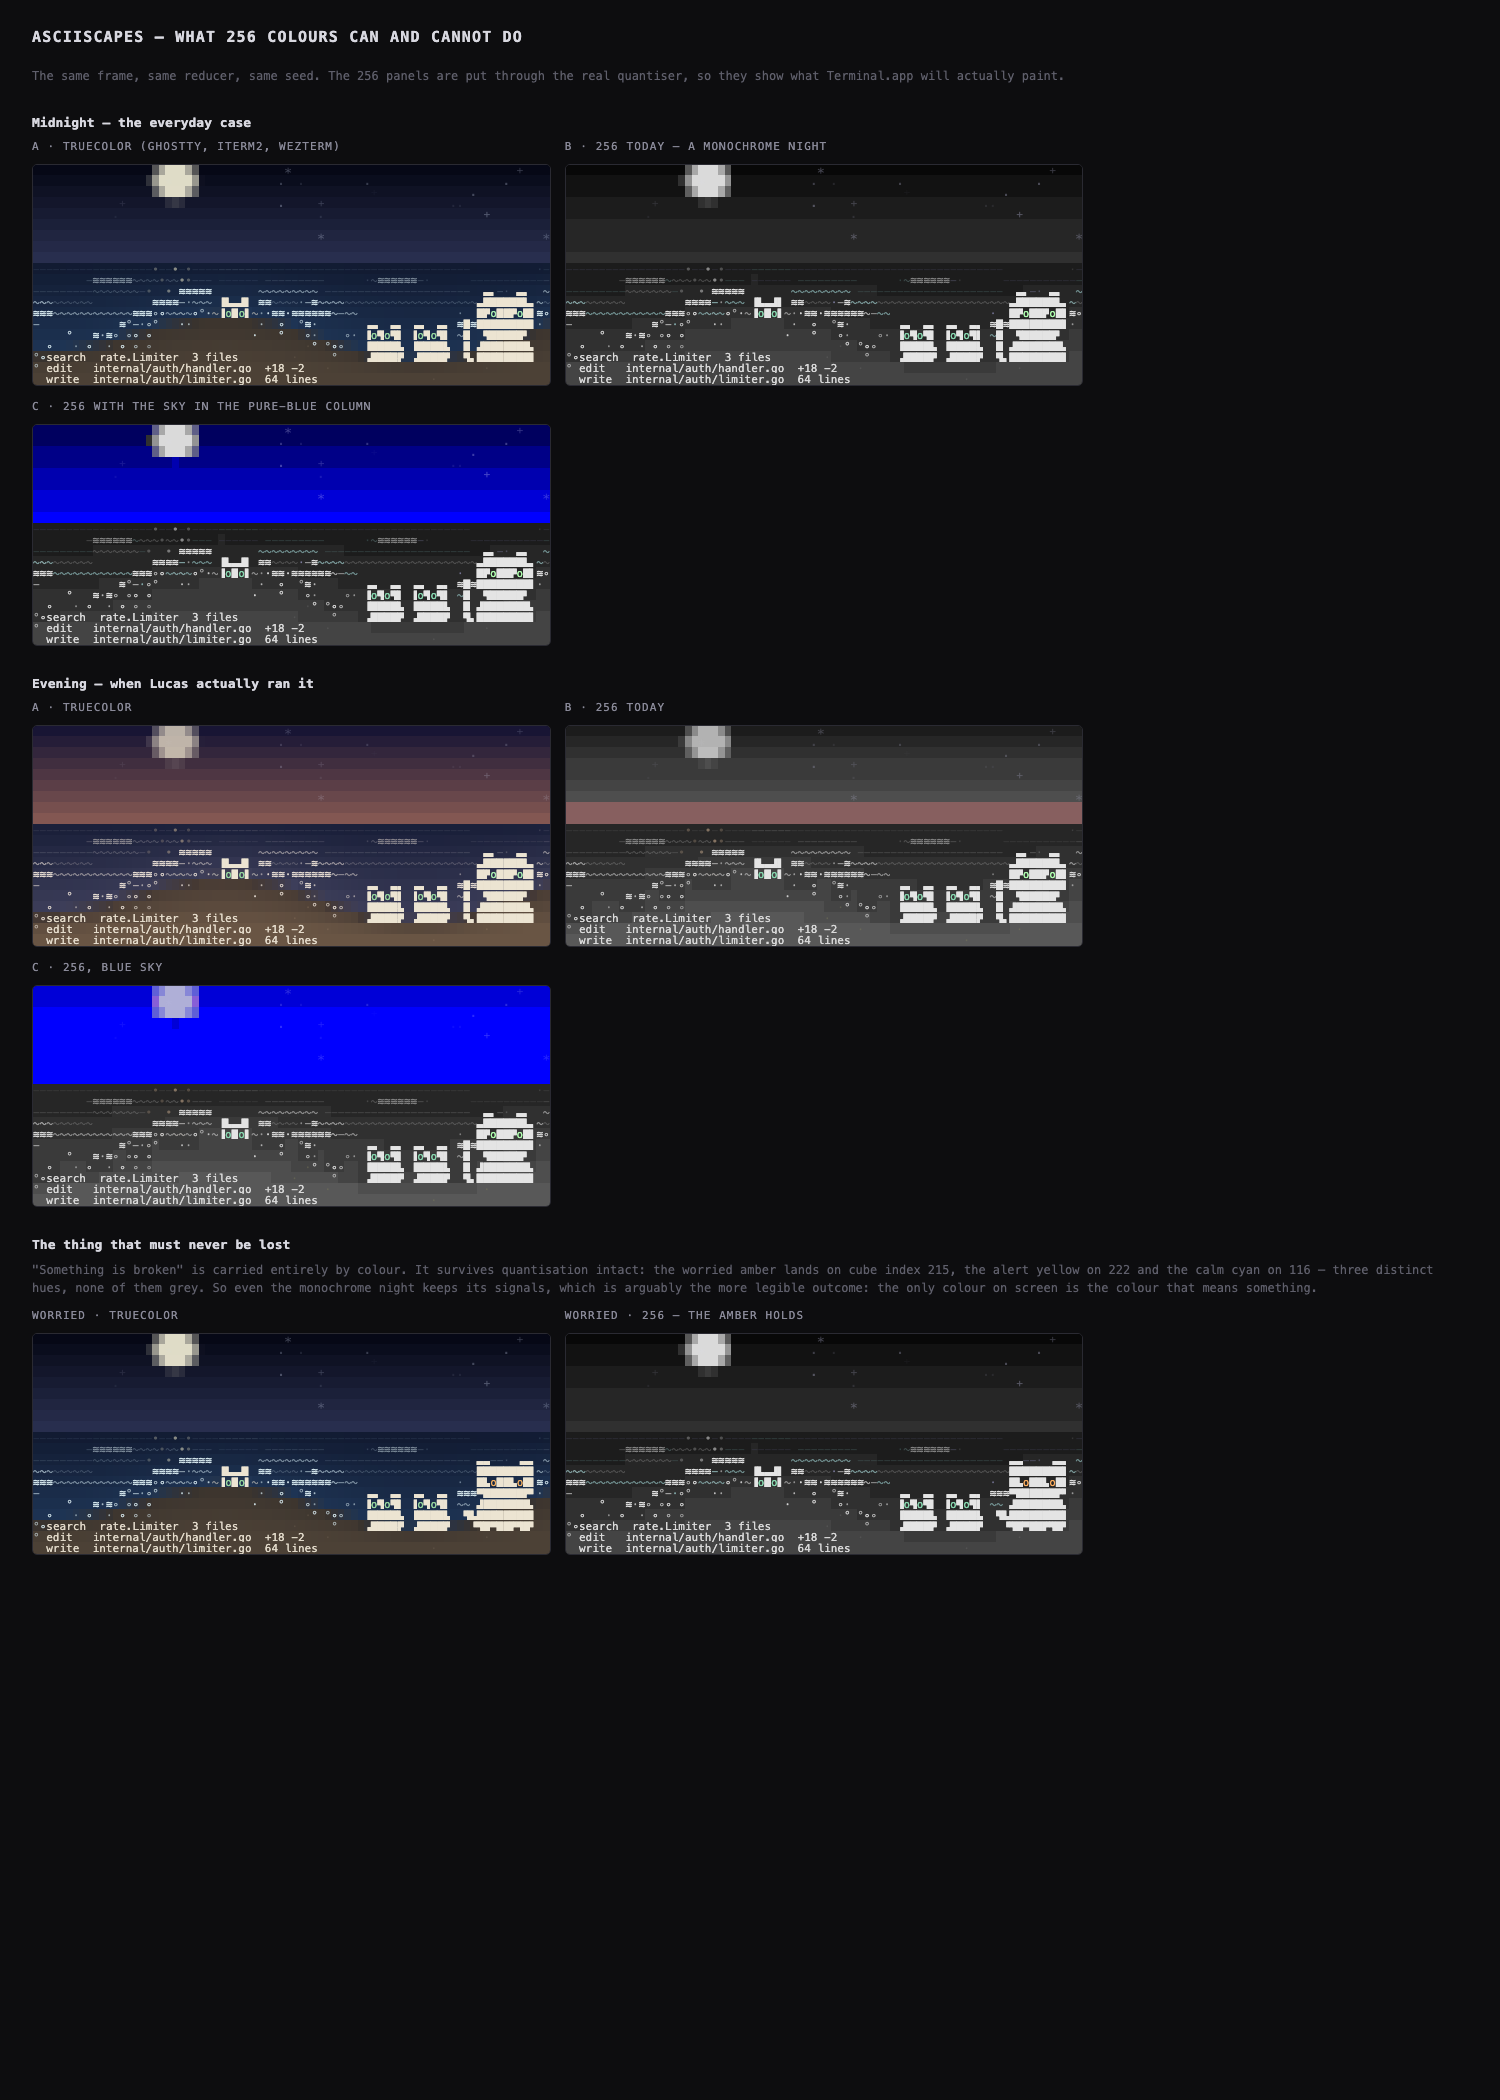
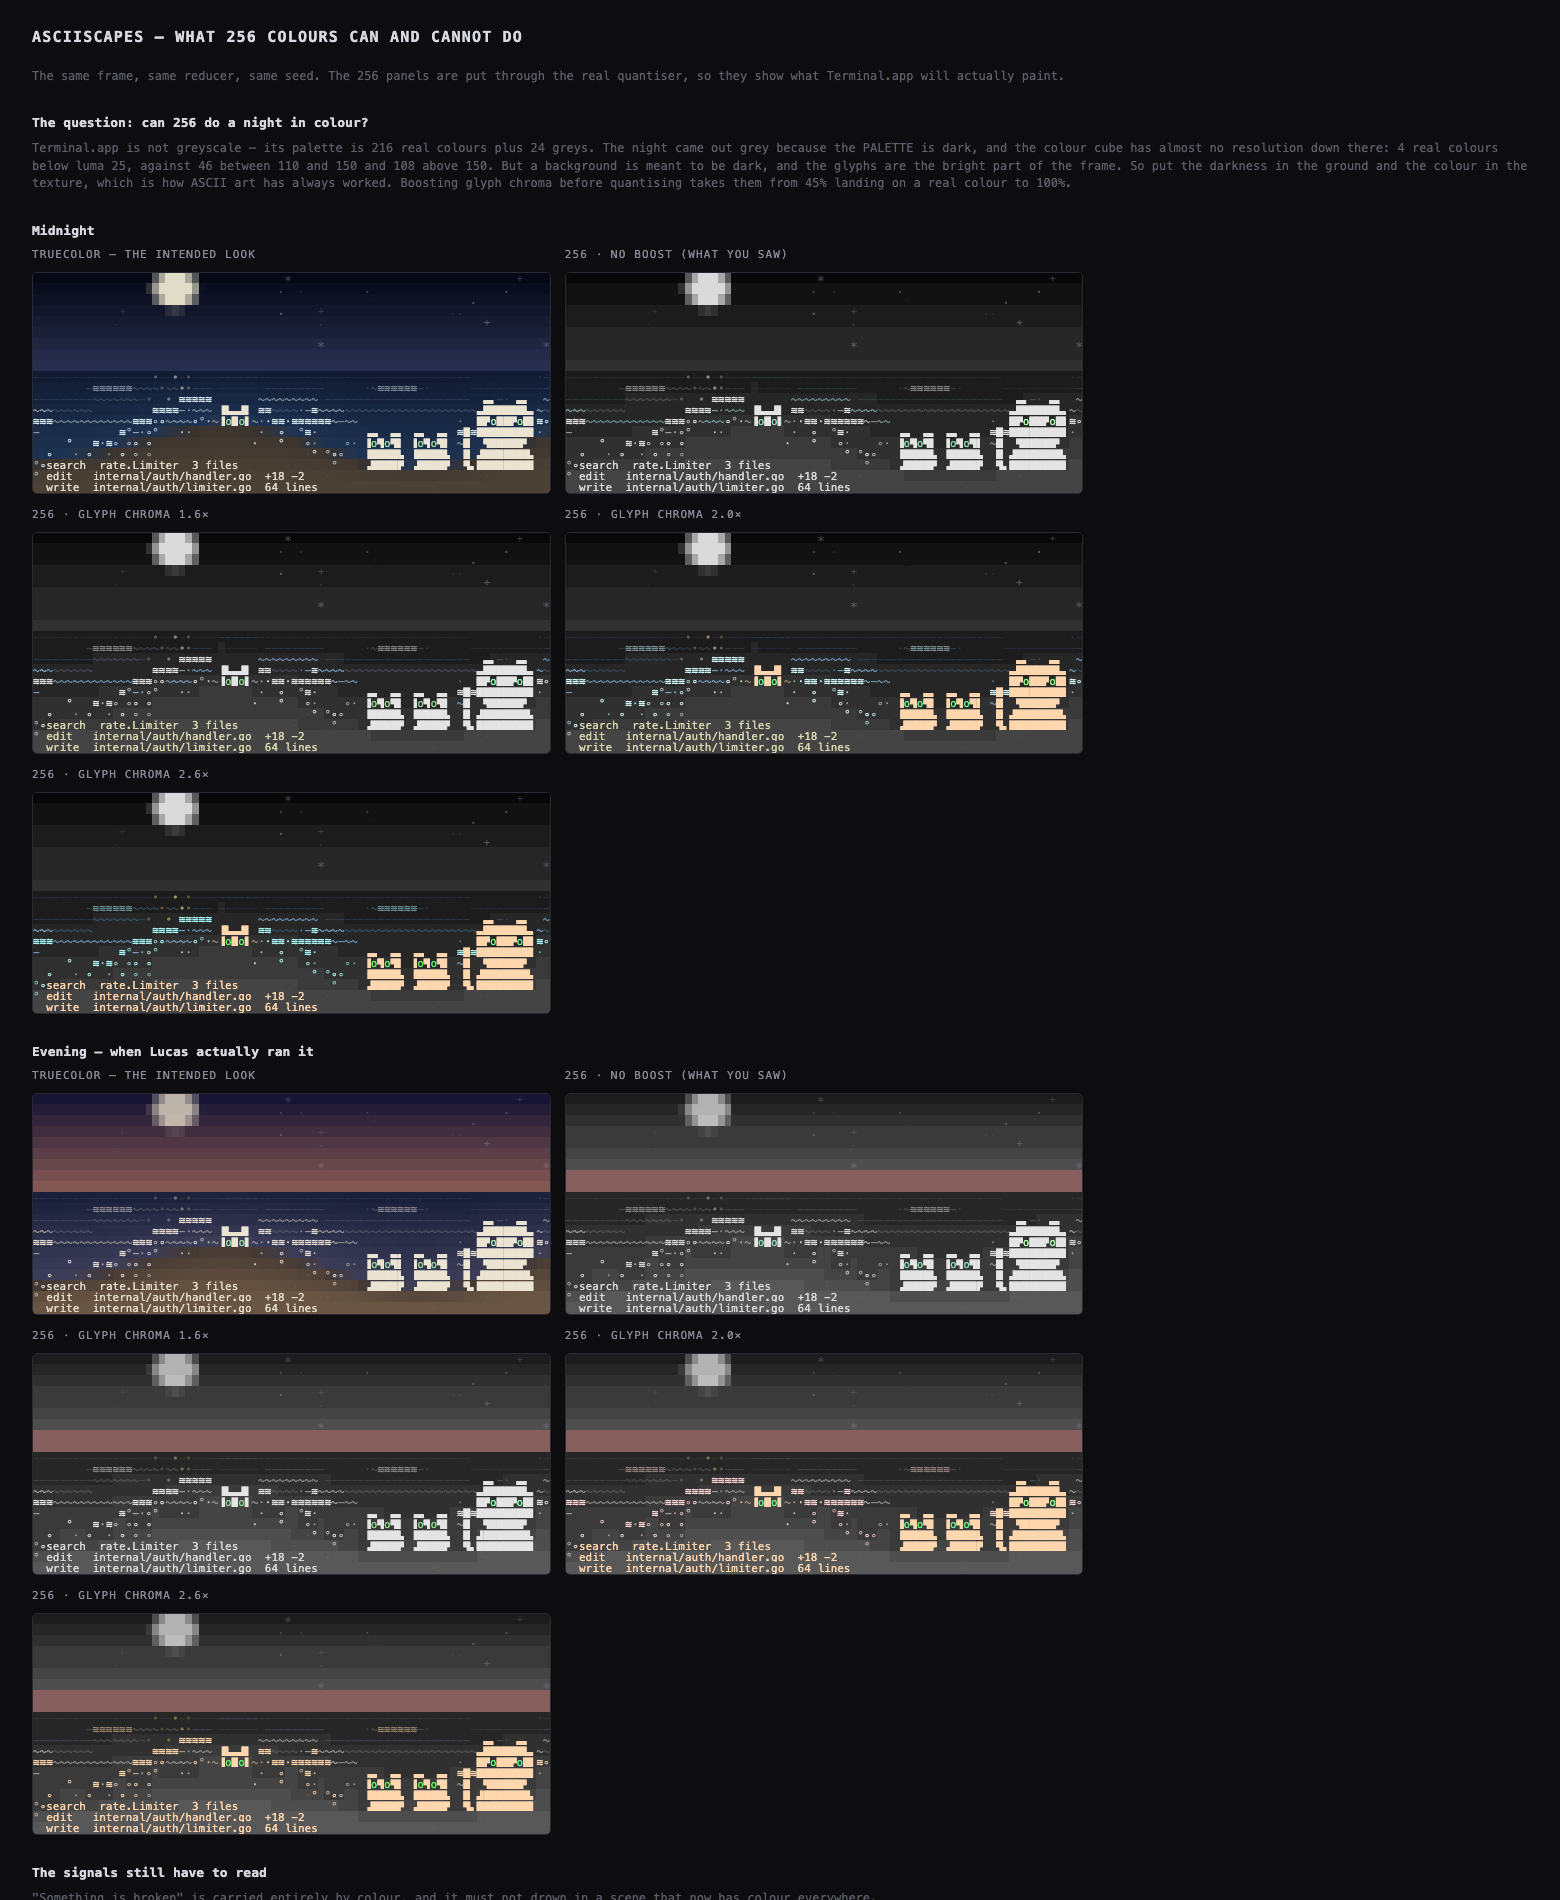
Colour on 256, by putting it in the glyphs instead of the ground
Lucas pushed back on the last conclusion and was right to. Terminal.app is not
greyscale -- its palette is 216 real colours plus 24 greys. The night came out
grey because our PALETTE is dark, not because the terminal is limited, and I
had folded those two things together.

The cube's resolution is wildly uneven with brightness. Counting only entries
with real chroma: 4 below luma 25, 6 from 25 to 50, 16 from 50 to 75, 30 from
75 to 110, 46 from 110 to 150, and 108 above 150. Every earlier attempt tried
to fix the BACKGROUNDS, which live at the starved end -- and to get them onto a
colour you have to brighten them until it stops being night, which is exactly
how all four designed palettes failed.

But a background is supposed to be dark, and dark is what night is. The glyphs
are the bright part of the frame, and brightness is where the cube gets
generous. Measured on a real frame: 612 glyphs, 93.5% of those in the 110-150
band already landing on a real colour. So the darkness belongs in the ground
and the colour in the texture, which is how ASCII art has always worked.

Boosting glyph chroma before quantising takes glyphs from 45.1% on a real
colour to 100%, at 2.0x and above. The sea now reads blue on Terminal.app
instead of grey.

The gate matters as much as the boost. Everything MEANT to read as white
clusters just under chroma 30 -- cat fur 26, moon 26, foam 24, the newest line
of sand 24 -- and everything meant to read as a colour is far above it: sea
[…]

diff --git a/colors.go b/colors.go
@@ -37,7 +37,10 @@ func colorPage(seed int64) string {
 		red.Apply(event.Event{Kind: event.SubStart, Agent: fmt.Sprint("a", i)}, at(3))
 	}
 
-	frame := func(tod float64, blueSky bool, p term.Profile, worried bool) string {
+	frame := func(tod float64, blueSky bool, p term.Profile, worried bool, boost float64) string {
+		saved := term.GlyphBoost
+		term.GlyphBoost = boost
+		defer func() { term.GlyphBoost = saved }()
 		st := red.State(at(4))
 		st.Act.Level, st.Act.Working, st.Act.TimeOfDay = 0.7, true, tod
 		st.Pose = companion.Working
@@ -75,38 +78,44 @@ func colorPage(seed int64) string {
 	b.WriteString(`<p class="nt">The same frame, same reducer, same seed. The 256 panels are put ` +
 		`through the real quantiser, so they show what Terminal.app will actually paint.</p>`)
 
-	b.WriteString(`<h2>Midnight &mdash; the everyday case</h2>`)
-	fmt.Fprintf(&b, `<div class="grid">
-	  <div class="col"><div class="lbl">A &middot; truecolor (Ghostty, iTerm2, WezTerm)</div><div class="win">%s</div></div>
-	  <div class="col"><div class="lbl">B &middot; 256 today &mdash; a monochrome night</div><div class="win">%s</div></div>
-	  <div class="col"><div class="lbl">C &middot; 256 with the sky in the pure-blue column</div><div class="win">%s</div></div>
-	</div>`,
-		frame(0, false, term.ProfileTrueColor, false),
-		frame(0, false, term.Profile256, false),
-		frame(0, true, term.Profile256, false))
+	b.WriteString(`<h2>The question: can 256 do a night in colour?</h2>`)
+	b.WriteString(`<p class="nt">Terminal.app is not greyscale &mdash; its palette is 216 real ` +
+		`colours plus 24 greys. The night came out grey because the PALETTE is dark, and the ` +
+		`colour cube has almost no resolution down there: 4 real colours below luma 25, against ` +
+		`46 between 110 and 150 and 108 above 150. But a background is meant to be dark, and the ` +
+		`glyphs are the bright part of the frame. So put the darkness in the ground and the ` +
+		`colour in the texture, which is how ASCII art has always worked. Boosting glyph chroma ` +
+		`before quantising takes them from 45% landing on a real colour to 100%.</p>`)
 
-	b.WriteString(`<h2>Evening &mdash; when Lucas actually ran it</h2>`)
-	fmt.Fprintf(&b, `<div class="grid">
-	  <div class="col"><div class="lbl">A &middot; truecolor</div><div class="win">%s</div></div>
-	  <div class="col"><div class="lbl">B &middot; 256 today</div><div class="win">%s</div></div>
-	  <div class="col"><div class="lbl">C &middot; 256, blue sky</div><div class="win">%s</div></div>
-	</div>`,
-		frame(0.888, false, term.ProfileTrueColor, false),
-		frame(0.888, false, term.Profile256, false),
-		frame(0.888, true, term.Profile256, false))
+	for _, tod := range []struct {
+		v    float64
+		name string
+	}{{0, "Midnight"}, {0.888, "Evening &mdash; when Lucas actually ran it"}} {
+		fmt.Fprintf(&b, `<h2>%s</h2><div class="grid">`, tod.name)
+		fmt.Fprintf(&b, `<div class="col"><div class="lbl">truecolor &mdash; the intended look</div><div class="win">%s</div></div>`,
+			frame(tod.v, false, term.ProfileTrueColor, false, 1.0))
+		for _, k := range []float64{1.0, 2.2} {
+			lbl := fmt.Sprintf("256 &middot; glyph chroma %.1f&times;", k)
+			if k == 1.0 {
+				lbl = "256 &middot; no boost (what you saw)"
+			}
+			fmt.Fprintf(&b, `<div class="col"><div class="lbl">%s</div><div class="win">%s</div></div>`,
+				lbl, frame(tod.v, false, term.Profile256, false, k))
+		}
+		b.WriteString(`</div>`)
+	}
 
-	b.WriteString(`<h2>The thing that must never be lost</h2>`)
-	b.WriteString(`<p class="nt">"Something is broken" is carried entirely by colour. It survives ` +
-		`quantisation intact: the worried amber lands on cube index 215, the alert yellow on 222 and ` +
-		`the calm cyan on 116 &mdash; three distinct hues, none of them grey. So even the monochrome ` +
-		`night keeps its signals, which is arguably the more legible outcome: the only colour on ` +
-		`screen is the colour that means something.</p>`)
+	b.WriteString(`<h2>The signals still have to read</h2>`)
+	b.WriteString(`<p class="nt">"Something is broken" is carried entirely by colour, and it must ` +
+		`not drown in a scene that now has colour everywhere.</p>`)
 	fmt.Fprintf(&b, `<div class="grid">
 	  <div class="col"><div class="lbl">worried &middot; truecolor</div><div class="win">%s</div></div>
-	  <div class="col"><div class="lbl">worried &middot; 256 &mdash; the amber holds</div><div class="win">%s</div></div>
+	  <div class="col"><div class="lbl">worried &middot; 256 no boost</div><div class="win">%s</div></div>
+	  <div class="col"><div class="lbl">worried &middot; 256 at 2.0&times;</div><div class="win">%s</div></div>
 	</div>`,
-		frame(0, false, term.ProfileTrueColor, true),
-		frame(0, false, term.Profile256, true))
+		frame(0, false, term.ProfileTrueColor, true, 1.0),
+		frame(0, false, term.Profile256, true, 1.0),
+		frame(0, false, term.Profile256, true, 2.0))
 
 	return canvas.HTMLPage("asciiscapes — colour study", b.String())
 }

diff --git a/internal/term/color.go b/internal/term/color.go
@@ -123,6 +123,46 @@ func (c RGB) Index256() int {
 	return cubeIdx
 }
 
+// Saturate pushes a colour away from grey without changing how bright it is.
+//
+// This is what makes a 256-colour terminal show a blue night. The cube has no
+// resolution in the dark, so BACKGROUNDS there are doomed to grey -- but a
+// background is meant to be dark, and dark IS night. The glyphs are the bright
+// part of the frame, and brightness is exactly where the cube gets generous:
+// 4 real colours below luma 25, but 46 between 110 and 150 and 108 above 150.
+// So the darkness stays in the ground and the colour goes in the texture,
+// which is how ASCII art has always worked.
+func (c RGB) Saturate(k float64) RGB {
+	// Leave near-neutrals alone. The companion's fur is (236,232,222) -- a
+	// barely-warm white with 14 points of chroma -- and multiplying that turns
+	// the cat orange, which measured perfectly and looked absurd. Anything
+	// this close to grey is MEANT to be grey; only colours that are already
+	// colours get pushed.
+	mx, mn := c.R, c.R
+	for _, v := range []uint8{c.G, c.B} {
+		if v > mx {
+			mx = v
+		}
+		if v < mn {
+			mn = v
+		}
+	}
+	if int(mx)-int(mn) < neutralChroma {
+		return c
+	}
+	l := 0.30*float64(c.R) + 0.59*float64(c.G) + 0.11*float64(c.B)
+	ch := func(v uint8) uint8 {
+		f := l + (float64(v)-l)*k
+		if f < 0 {
+			f = 0
+		} else if f > 255 {
+			f = 255
+		}
+		return uint8(f + 0.5)
+	}
+	return RGB{ch(c.R), ch(c.G), ch(c.B)}
+}
+
 // FromIndex256 is the inverse of Index256: the colour a terminal actually
 // paints for an index. Needed to SHOW what a 256-colour terminal will do with
 // a palette, rather than describing it -- the HTML harness renders true RGB,
@@ -140,10 +180,47 @@ func FromIndex256(i int) RGB {
 	return RGB{}
 }
 
+// neutralChroma is how close to grey a colour has to be before the boost
+// leaves it alone.
+//
+// The threshold is not arbitrary: measured across the palette, everything
+// MEANT to read as white clusters tightly just under 30 -- cat fur 26, the
+// moon 26, foam 24, the newest line of sand 24 -- and everything meant to
+// read as a colour is far above it: sea glyphs 80, the worried amber 148.
+// There is a clean gap, so one number separates them.
+//
+// Getting this wrong is visible rather than subtle. At 18 the cat was inside
+// the boost and turned peach, which measured perfectly and looked absurd.
+const neutralChroma = 30
+
+// GlyphBoost is how hard glyph colours are pushed away from grey before they
+// are quantised for a 256-colour terminal. 1.0 disables it.
+//
+// Measured on a full frame: at 1.0 only 45% of glyphs land on a real colour and
+// the rest fall into the grey ramp; at 2.0 it is 100%. Backgrounds are
+// deliberately NOT boosted -- they are the dark part of a night and belong in
+// the greys.
+var GlyphBoost = 2.2
+
+func init() {
+	// Tunable without a rebuild, because the right value is a judgement made
+	// by looking at a real terminal, not by reading a number.
+	if v := os.Getenv("ASCIISCAPES_CHROMA"); v != "" {
+		if f, err := strconv.ParseFloat(v, 64); err == nil && f >= 1 && f <= 6 {
+			GlyphBoost = f
+		}
+	}
+}
+
 // Quantise returns the colour as the given profile would actually show it.
-func (p Profile) Quantise(c RGB) RGB {
+// fg says whether this is a glyph rather than a background, because only
+// glyphs get the chroma boost.
+func (p Profile) Quantise(c RGB, fg bool) RGB {
 	if p == ProfileTrueColor {
 		return c
+	}
+	if fg {
+		c = c.Saturate(GlyphBoost)
 	}
 	return FromIndex256(c.Index256())
 }
@@ -167,6 +244,9 @@ func (p Profile) appendSGR(dst []byte, c RGB, fg bool) []byte {
 		dst = append(dst, ';')
 		dst = strconv.AppendInt(dst, int64(c.B), 10)
 	} else {
+		if fg {
+			c = c.Saturate(GlyphBoost)
+		}
 		dst = append(dst, '5', ';')
 		dst = strconv.AppendInt(dst, int64(c.Index256()), 10)
 	}

diff --git a/internal/term/chroma_test.go b/internal/term/chroma_test.go
@@ -1,0 +1,64 @@
+package term
+
+import "testing"
+
+// The boost exists to get glyphs off the greyscale ramp on a 256-colour
+// terminal. It must not do that by recolouring things that are meant to be
+// white -- the companion is the obvious one, and a peach cat is worse than a
+// grey sea.
+func TestBoostLeavesNeutralsAlone(t *testing.T) {
+	neutral := []struct {
+		n string
+		c RGB
+	}{
+		{"cat fur", RGB{236, 228, 210}},
+		{"moon", RGB{240, 236, 214}},
+		{"foam", RGB{214, 232, 238}},
+	}
+	for _, e := range neutral {
+		for _, k := range []float64{1.5, 2.2, 3.0, 6.0} {
+			if got := e.c.Saturate(k); got != e.c {
+				t.Errorf("%s moved at %.1fx: rgb(%d,%d,%d) -> rgb(%d,%d,%d)",
+					e.n, k, e.c.R, e.c.G, e.c.B, got.R, got.G, got.B)
+			}
+		}
+	}
+}
+
+// And it must actually work on the things that are meant to be colours.
+func TestBoostRescuesColoursFromTheGreyRamp(t *testing.T) {
+	for _, e := range []struct {
+		n string
+		c RGB
+	}{
+		{"sea glyph", RGB{120, 170, 200}},
+		{"deep sea glyph", RGB{70, 110, 150}},
+	} {
+		if e.c.Index256() < 232 {
+			continue // already fine unboosted
+		}
+		if got := e.c.Saturate(GlyphBoost).Index256(); got >= 232 {
+			t.Errorf("%s still lands on the grey ramp after the boost: index %d", e.n, got)
+		}
+	}
+}
+
+// Brightness must broadly survive the boost, or the scene changes exposure
+// rather than gaining colour.
+//
+// The tolerance is 20 rather than 0 because a colour already near the edge of
+// the gamut cannot gain chroma without clipping: the worried amber pushes red
+// past 255, the clamp holds it, and the result lands 15.5 luma darker. That is
+// a bounded, one-sided cost on the most saturated colours in the palette, and
+// worth it -- but it should stay bounded, which is what this asserts.
+func TestBoostPreservesBrightness(t *testing.T) {
+	luma := func(c RGB) float64 {
+		return 0.30*float64(c.R) + 0.59*float64(c.G) + 0.11*float64(c.B)
+	}
+	for _, c := range []RGB{{120, 170, 200}, {244, 176, 96}, {70, 110, 150}} {
+		before, after := luma(c), luma(c.Saturate(2.2))
+		if d := after - before; d > 20 || d < -20 {
+			t.Errorf("rgb(%d,%d,%d) changed brightness by %.1f", c.R, c.G, c.B, d)
+		}
+	}
+}

diff --git a/internal/canvas/canvas.go b/internal/canvas/canvas.go
@@ -186,12 +186,12 @@ func (c *Canvas) HTMLFragmentAs(fontPx int, p term.Profile) string {
 		saveLayers[i] = append([]Cell(nil), l.Cells...)
 		for j := range l.Cells {
 			if l.Cells[j].Set {
-				l.Cells[j].FG = p.Quantise(l.Cells[j].FG)
+				l.Cells[j].FG = p.Quantise(l.Cells[j].FG, true)
 			}
 		}
 	}
 	for i := range c.BG {
-		c.BG[i] = p.Quantise(c.BG[i])
+		c.BG[i] = p.Quantise(c.BG[i], false)
 	}
 	out := c.HTMLFragment(fontPx)
 	c.BG = saveBG

diff --git a/main.go b/main.go
@@ -61,8 +61,8 @@ func main() {
 
 	if *info {
 		tw, th := termSize()
-		fmt.Printf("profile=%s  size=%dx%d  TERM=%q COLORTERM=%q TERM_PROGRAM=%q\n",
-			term.DetectProfile(), tw, th,
+		fmt.Printf("profile=%s  size=%dx%d  glyph-chroma=%.1fx  TERM=%q COLORTERM=%q TERM_PROGRAM=%q\n",
+			term.DetectProfile(), tw, th, term.GlyphBoost,
 			os.Getenv("TERM"), os.Getenv("COLORTERM"), os.Getenv("TERM_PROGRAM"))
 		return
 	}
